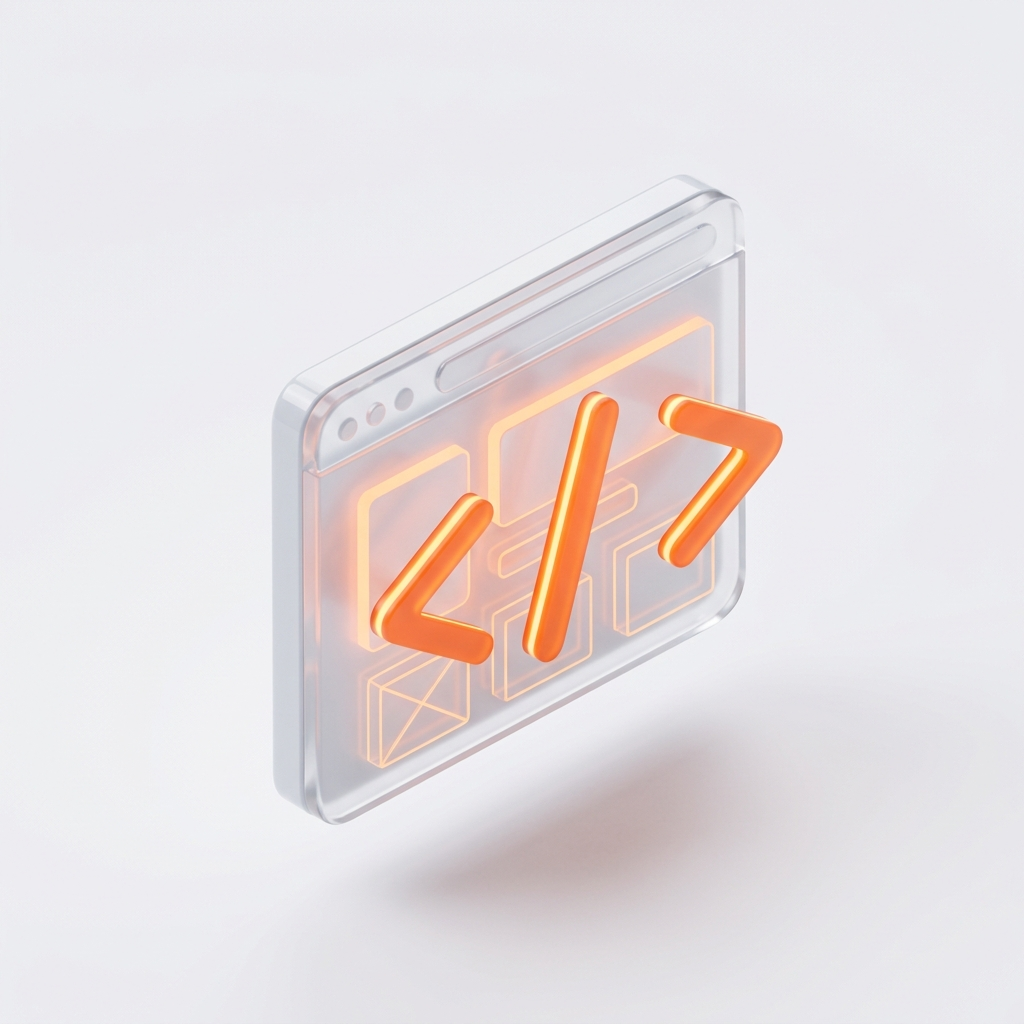
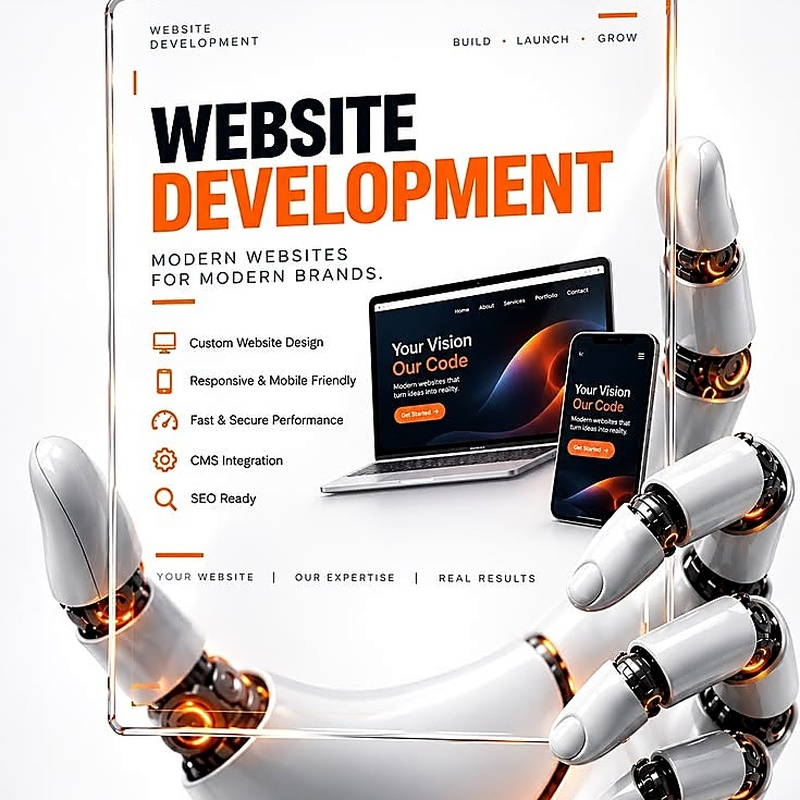
Replace orange code brackets with 3D digital deployment graphics in hero plate and category circles

diff --git a/fuelplate-recipes-template/components/fuelplate-recipes-template/fuelplate-recipes-template.tsx b/fuelplate-recipes-template/components/fuelplate-recipes-template/fuelplate-recipes-template.tsx
@@ -184,7 +184,7 @@ const DEFAULT_RECIPE: FptRecipe = {
 }
 
 const DEFAULT_CATEGORIES: FptCategory[] = [
-  { name: "Website Development", count: 48, image: { src: "/cat-webdev.jpg", alt: "Website Development", tone: "#f97316" } },
+  { name: "Website Development", count: 48, image: { src: "/cat-webdev.jpg", alt: "Website Development", tone: "#7c3aed" } },
   { name: "App Development", count: 35, image: { src: "/cat-appdev.jpg", alt: "App Development", tone: "#f97316" } },
   { name: "Business Applications", count: 24, image: { src: "/cat-webapp.jpg", alt: "Business Applications", tone: "#f97316" } },
   { name: "E-Commerce Stores", count: 26, image: { src: "/cat-ecommerce.jpg", alt: "E-Commerce Stores", tone: "#f97316" } },
@@ -1907,13 +1907,13 @@ export default function FuelplateRecipesTemplate({
   const t = testimonials
   const nutrientRows = [nutrients.slice(0, Math.ceil(nutrients.length / 2)), nutrients.slice(Math.ceil(nutrients.length / 2))]
   const dietCards = [
-    { tag: "web", label: "Website Dev", image: { src: "/cat-webdev.jpg", alt: "Website Development", tone: "#f97316" } },
+    { tag: "web", label: "Website Dev", image: { src: "/cat-webdev.jpg", alt: "Website Development", tone: "#7c3aed" } },
     { tag: "mobile", label: "App Dev", image: { src: "/cat-appdev.jpg", alt: "App Development", tone: "#f97316" } },
     { tag: "business", label: "Business Apps", image: { src: "/cat-webapp.jpg", alt: "Business Applications", tone: "#f97316" } },
     { tag: "crm", label: "CRM & ERP", image: { src: "/cat-crm.jpg", alt: "CRM & ERP Systems", tone: "#f97316" } },
   ]
   const orbitShots = [
-    { id: "o1", image: { src: "/cat-webdev.jpg", alt: "Website Development", tone: "#f97316" } },
+    { id: "o1", image: { src: "/cat-webdev.jpg", alt: "Website Development", tone: "#7c3aed" } },
     { id: "o2", image: { src: "/cat-appdev.jpg", alt: "App Development", tone: "#f97316" } },
     { id: "o3", image: { src: "/cat-ecommerce.jpg", alt: "E-Commerce", tone: "#f97316" } },
     { id: "o4", image: { src: "/cat-ai.jpg", alt: "AI & Neural Tech", tone: "#f97316" } },
@@ -1976,7 +1976,7 @@ export default function FuelplateRecipesTemplate({
           </div>
           {dishes[0] && (
             <div className="fpt-plate" aria-hidden="true">
-              <Pic shot={{ src: "/cat-webdev.jpg", alt: "Active Deployment", tone: "#f97316" }} w={420} h={200} eager />
+              <Pic shot={{ src: "/hero-deploy.jpg", alt: "Active Deployment", tone: "#7c3aed" }} w={420} h={200} eager />
               <div style={{ display: "flex", justifyContent: "space-between", alignItems: "baseline" }}>
                 <b>{(dishes[0] || dishes[1]).name}</b>
               </div>

diff --git a/src/components/ui/fuelplate-recipes-template.tsx b/src/components/ui/fuelplate-recipes-template.tsx
@@ -184,7 +184,7 @@ const DEFAULT_RECIPE: FptRecipe = {
 }
 
 const DEFAULT_CATEGORIES: FptCategory[] = [
-  { name: "Website Development", count: 48, image: { src: "/cat-webdev.jpg", alt: "Website Development", tone: "#f97316" } },
+  { name: "Website Development", count: 48, image: { src: "/cat-webdev.jpg", alt: "Website Development", tone: "#7c3aed" } },
   { name: "App Development", count: 35, image: { src: "/cat-appdev.jpg", alt: "App Development", tone: "#f97316" } },
   { name: "Business Applications", count: 24, image: { src: "/cat-webapp.jpg", alt: "Business Applications", tone: "#f97316" } },
   { name: "E-Commerce Stores", count: 26, image: { src: "/cat-ecommerce.jpg", alt: "E-Commerce Stores", tone: "#f97316" } },
@@ -1907,13 +1907,13 @@ export default function FuelplateRecipesTemplate({
   const t = testimonials
   const nutrientRows = [nutrients.slice(0, Math.ceil(nutrients.length / 2)), nutrients.slice(Math.ceil(nutrients.length / 2))]
   const dietCards = [
-    { tag: "web", label: "Website Dev", image: { src: "/cat-webdev.jpg", alt: "Website Development", tone: "#f97316" } },
+    { tag: "web", label: "Website Dev", image: { src: "/cat-webdev.jpg", alt: "Website Development", tone: "#7c3aed" } },
     { tag: "mobile", label: "App Dev", image: { src: "/cat-appdev.jpg", alt: "App Development", tone: "#f97316" } },
     { tag: "business", label: "Business Apps", image: { src: "/cat-webapp.jpg", alt: "Business Applications", tone: "#f97316" } },
     { tag: "crm", label: "CRM & ERP", image: { src: "/cat-crm.jpg", alt: "CRM & ERP Systems", tone: "#f97316" } },
   ]
   const orbitShots = [
-    { id: "o1", image: { src: "/cat-webdev.jpg", alt: "Website Development", tone: "#f97316" } },
+    { id: "o1", image: { src: "/cat-webdev.jpg", alt: "Website Development", tone: "#7c3aed" } },
     { id: "o2", image: { src: "/cat-appdev.jpg", alt: "App Development", tone: "#f97316" } },
     { id: "o3", image: { src: "/cat-ecommerce.jpg", alt: "E-Commerce", tone: "#f97316" } },
     { id: "o4", image: { src: "/cat-ai.jpg", alt: "AI & Neural Tech", tone: "#f97316" } },
@@ -1976,7 +1976,7 @@ export default function FuelplateRecipesTemplate({
           </div>
           {dishes[0] && (
             <div className="fpt-plate" aria-hidden="true">
-              <Pic shot={{ src: "/cat-webdev.jpg", alt: "Active Deployment", tone: "#f97316" }} w={420} h={200} eager />
+              <Pic shot={{ src: "/hero-deploy.jpg", alt: "Active Deployment", tone: "#7c3aed" }} w={420} h={200} eager />
               <div style={{ display: "flex", justifyContent: "space-between", alignItems: "baseline" }}>
                 <b>{(dishes[0] || dishes[1]).name}</b>
               </div>
